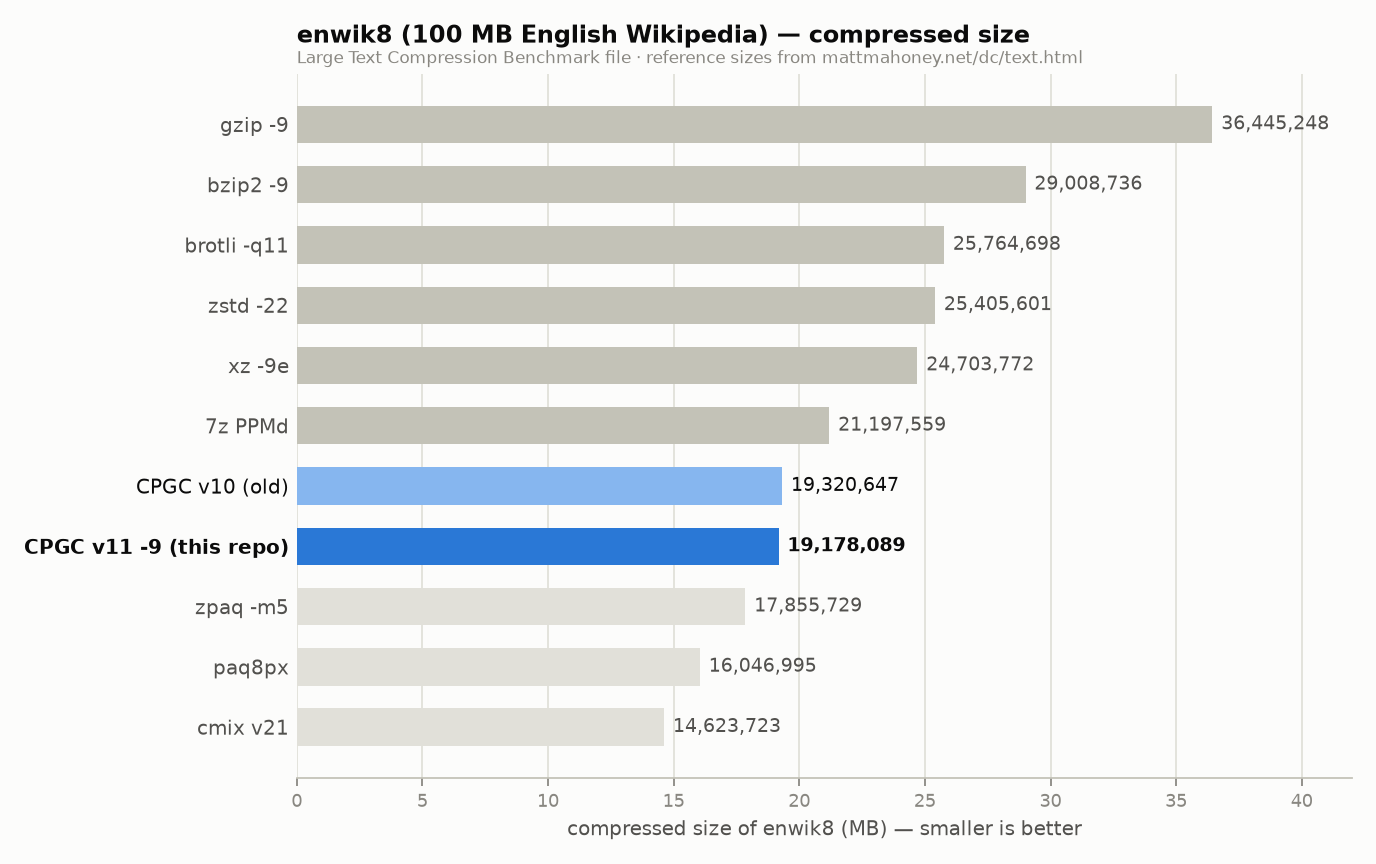
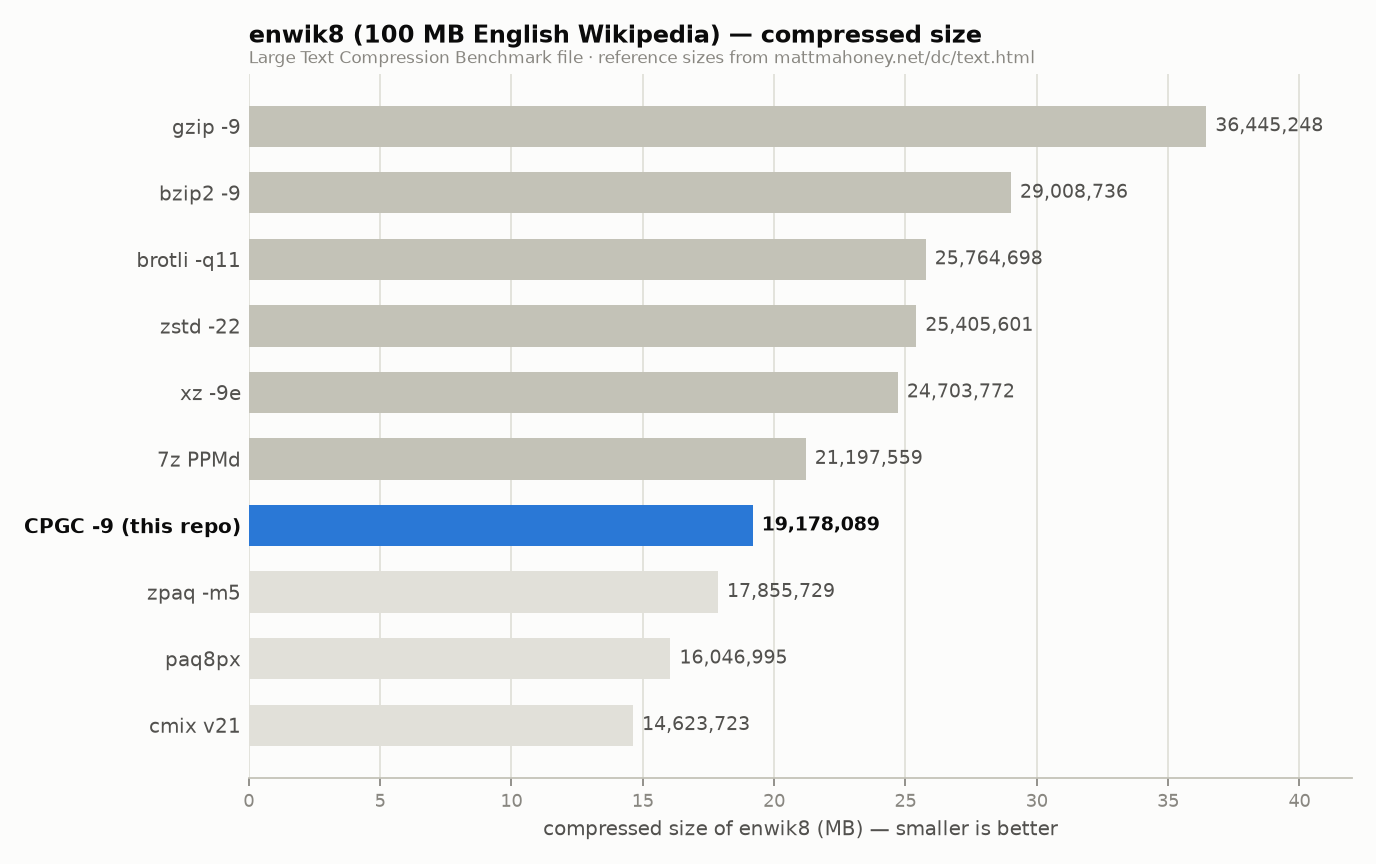
Tighten README and clean up benchmark charts
Cut the marketing-style highlights list and the prose that just restated
the chart numbers; replace them with a short technical "How it works"
section and let the charts carry the tool-vs-tool comparison. Drop the
internal "old version" baseline bar and version numbers from the chart
labels so the figures stay stable across releases, and slim the level
tables to size/ratio/time.

Claude-Session: https://claude.ai/code/session_012eHpCeH6DZ7CNZ9Yp9UYKc

diff --git a/benchmarks/make_charts.py b/benchmarks/make_charts.py
@@ -77,13 +77,10 @@ LTCB = [
     ("paq8px", 16_046_995),
     ("cmix v21", 14_623_723),
 ]
-V10_BASELINE = ("CPGC v10 (old)", 19_320_647)
-
 # ---------------------------------------------------------------------------
-# Chart 1: compressed size, CPGC v11 vs the field (horizontal bars, sorted)
+# Chart 1: compressed size, CPGC vs the field (horizontal bars, sorted)
 # ---------------------------------------------------------------------------
-entries = [("CPGC v11 -9 (this repo)", best[1], "cpgc")]
-entries.append((V10_BASELINE[0], V10_BASELINE[1], "old"))
+entries = [("CPGC -9 (this repo)", best[1], "cpgc")]
 for name, size in LTCB:
     kind = "research" if name in ("zpaq -m5", "paq8px", "cmix v21") else "classic"
     entries.append((name, size, kind))
@@ -179,7 +176,7 @@ ax.grid(color=GRID, linewidth=0.8, zorder=0)
 ax.spines[["top", "right"]].set_visible(False)
 ax.tick_params(labelsize=8)
 ax.set_title(
-    "CPGC v11 levels 1-9 on enwik8 — size vs compress time",
+    "CPGC levels 1-9 on enwik8 — size vs compress time",
     fontsize=11, fontweight="bold", loc="left", pad=14, color=PRIMARY,
 )
 ax.text(
@@ -224,7 +221,7 @@ if os.path.exists(e9_csv):
 
     best9 = e9["cpgc-9"]
     assert best9["verified"] == "1", "enwik9 -9 failed round-trip verification!"
-    entries9 = [("CPGC v11 -9 (this repo)", int(best9["comp_bytes"]), "cpgc")]
+    entries9 = [("CPGC -9 (this repo)", int(best9["comp_bytes"]), "cpgc")]
     entries9 += LTCB9
     entries9.sort(key=lambda e: e[1], reverse=True)
 

diff --git a/README.md b/README.md
@@ -1,30 +1,24 @@
 # CPGC
 
-CPGC is an experimental, lossless general-purpose compressor built around the
-**CPGC-NX** bit-level context-mixing engine. It includes a command-line tool, a
-native desktop archive browser, solid directory archives, parallel compression,
-and CRC-32 verification.
+CPGC is an experimental, lossless compressor built on the **CPGC-NX** bit-level
+context-mixing engine. It trades speed for ratio on text — it is not a
+replacement for zstd or gzip when latency matters. It ships as a command-line
+tool and a native archive-browser GUI, supports single-file `.cpgc` and solid
+multi-file archives, and CRC-32-verifies every archive it decodes.
 
-CPGC is optimized for compression ratio, especially on text. It is not intended
-to replace fast codecs such as zstd or gzip when latency is the main concern.
+## How it works
 
-## Highlights
+The engine predicts each bit from ~26 context models — hashed byte contexts
+(orders 2–16), word and word-pair models, sparse and stride contexts, indirect
+models, and a long-match model — combined by a two-layer logistic mixer and
+sharpened by a chained SSE stage before a binary arithmetic coder. Encoder and
+decoder update the same model in lockstep, so no model state is stored in the
+archive; it records only the segment size and model profile, so a file decodes
+identically regardless of the machine's CPU count or SIMD support.
 
-- Bit-level context mixing with hashed byte, word, sparse, stride, indirect,
-  and long-match models
-- Online two-layer logistic mixer, adaptive probability maps, and a binary
-  arithmetic coder
-- Parallel independent segments for large inputs
-- Turbo profiles at levels 1–3 and larger-memory profiles at levels 7–9
-- Adaptive text dictionary and reversible structured-data transforms
-- Detection and passthrough of incompressible regions
-- Single-file `.cpgc` and solid multi-file archive support
-- Native GUI and optional Windows Explorer integration
-- CRC-32 verification on every decoded archive
-
-The encoder and decoder update the same model in lockstep, so model state is not
-stored in the archive. The archive records its segment and model profile, making
-decoding independent of the machine's CPU count and SIMD support.
+Large inputs are split into independent segments for parallel compression,
+incompressible regions are detected and stored raw, and texty input can pass
+through an adaptive word dictionary or reversible structured-data transforms.
 
 ## Install
 
@@ -150,60 +144,51 @@ and test actions for `.cpgc` and `.cpas` archives.
 
 ### enwik8
 
-[enwik8](https://mattmahoney.net/dc/textdata.html) is the first 100,000,000
-bytes of the English Wikipedia dump and a standard text-compression benchmark.
-Every CPGC v11 archive below was decompressed and CRC-verified.
+[enwik8](https://mattmahoney.net/dc/textdata.html) is the first 100 MB of the
+English Wikipedia dump, a standard text-compression benchmark. At level 9 CPGC
+compresses it to **19,178,089 bytes (1.534 bpc)** — smaller than every
+general-purpose codec below; the research compressors zpaq, PAQ8, and cmix
+still lead. Every archive was round-trip decompressed and CRC-verified.
 
 ![enwik8 compressed size vs other tools](benchmarks/enwik8_sizes.png)
 
-At level 9, CPGC produces **19,178,089 bytes (1.534 bits/byte)**. That is 22%
-smaller than xz `-9e`, 24% smaller than zstd `-22`, 25% smaller than brotli
-`-q11`, 9.5% smaller than 7-Zip's PPMd, and 4.5% smaller than the original
-CPGC v9 (0.7% beyond v10). Research compressors such as zpaq, PAQ8, cmix, and
-nncp still achieve better ratios, at substantially higher runtime cost.
-
-#### All nine levels
+The nine levels trade compress time for ratio:
 
 ![CPGC level sweep on enwik8](benchmarks/enwik8_tradeoff.png)
 
-| Level | Compressed size | Bits/byte | Compress | Decompress | Round-trip |
-|---:|---:|---:|---:|---:|:---|
-| 1 | 23,539,435 B | 1.883 | 28 s | 25 s | Verified |
-| 2 | 22,743,019 B | 1.819 | 28 s | 25 s | Verified |
-| 3 | 22,065,155 B | 1.765 | 29 s | 28 s | Verified |
-| 4 | 20,818,067 B | 1.665 | 123 s | 126 s | Verified |
-| 5 | 20,388,399 B | 1.631 | 161 s | 164 s | Verified |
-| 6 | 20,140,482 B | 1.611 | 162 s | 164 s | Verified |
-| 7 | 19,249,638 B | 1.540 | 376 s | 367 s | Verified |
-| 8 | 19,178,089 B | 1.534 | 423 s | 415 s | Verified |
-| 9 | **19,178,089 B** | **1.534** | 410 s | 438 s | Verified |
+| Level | Compressed size | Bits/byte | Compress | Decompress |
+|---:|---:|---:|---:|---:|
+| 1 | 23,539,435 B | 1.883 | 28 s | 25 s |
+| 2 | 22,743,019 B | 1.819 | 28 s | 25 s |
+| 3 | 22,065,155 B | 1.765 | 29 s | 28 s |
+| 4 | 20,818,067 B | 1.665 | 123 s | 126 s |
+| 5 | 20,388,399 B | 1.631 | 161 s | 164 s |
+| 6 | 20,140,482 B | 1.611 | 162 s | 164 s |
+| 7 | 19,249,638 B | 1.540 | 376 s | 367 s |
+| 8 | 19,178,089 B | 1.534 | 423 s | 415 s |
+| 9 | **19,178,089 B** | **1.534** | 410 s | 438 s |
 
-These measurements used a four-core container. Levels 8 and 9 currently
-produce identical archives. Turbo level 1 compressed faster than xz `-9e` in
-this environment (27 seconds versus 138 seconds) while producing a smaller
-archive.
+Measured on a four-core container. Levels 8 and 9 currently produce identical
+archives.
 
 ### enwik9
 
-[enwik9](https://mattmahoney.net/dc/textdata.html) is the first 1,000,000,000
-bytes of the same dump and is used by the Large Text Compression Benchmark and
-the Hutter Prize. Every run was decompressed and CRC-verified.
+[enwik9](https://mattmahoney.net/dc/textdata.html) is the first 1 GB of the same
+dump — the Large Text Compression Benchmark and Hutter Prize file. At level 9
+CPGC reaches **163,890,252 bytes (1.311 bpc)**. Every archive was round-trip
+decompressed and CRC-verified.
 
 ![enwik9 compressed size vs other tools](benchmarks/enwik9_sizes.png)
 
-| Level | Compressed size | Bits/byte | Compress | Decompress | Round-trip |
-|---:|---:|---:|---:|---:|:---|
-| 1 | 205,675,118 B | 1.645 | 5 min | 4 min | Verified |
-| 3 | 192,017,370 B | 1.536 | 4 min | 4 min | Verified |
-| 5 | 176,029,194 B | 1.408 | 21 min | 22 min | Verified |
-| 9 | **163,890,252 B** | **1.311** | 39 min | 40 min | Verified |
+| Level | Compressed size | Bits/byte | Compress | Decompress |
+|---:|---:|---:|---:|---:|
+| 1 | 205,675,118 B | 1.645 | 5 min | 4 min |
+| 3 | 192,017,370 B | 1.536 | 4 min | 4 min |
+| 5 | 176,029,194 B | 1.408 | 21 min | 22 min |
+| 9 | **163,890,252 B** | **1.311** | 39 min | 40 min |
 
-These measurements used the same four-core container. The level 9 run was
-capped at three workers so the extra-large models fit within 15 GB of RAM. Its
-163,890,252-byte output is 16.9% smaller than xz `-9e`, 24% smaller than zstd
-`-22`, and 8.4% smaller than 7-Zip's PPMd on the reference ranking, and 4.9%
-smaller than CPGC v9. The default level 5 also comfortably beats PPMd's best
-reported size.
+Same four-core container; level 9 was capped at three workers to fit its models
+within 15 GB of RAM.
 
 Full measurements and chart-generation scripts are in [`benchmarks/`](benchmarks/):
 